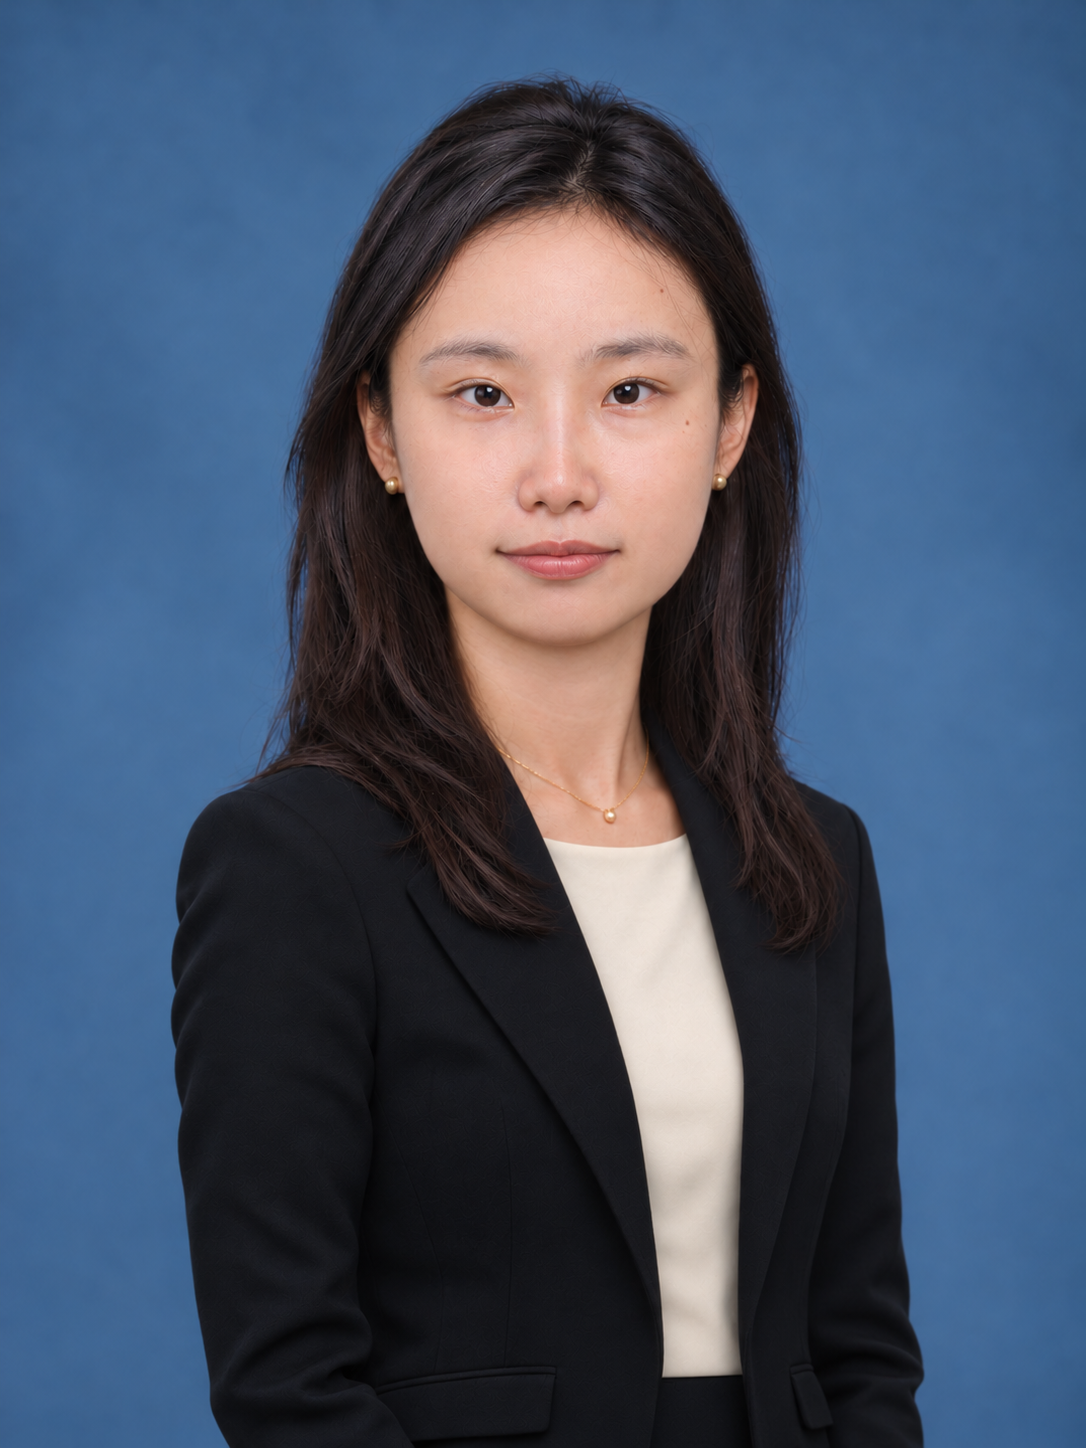
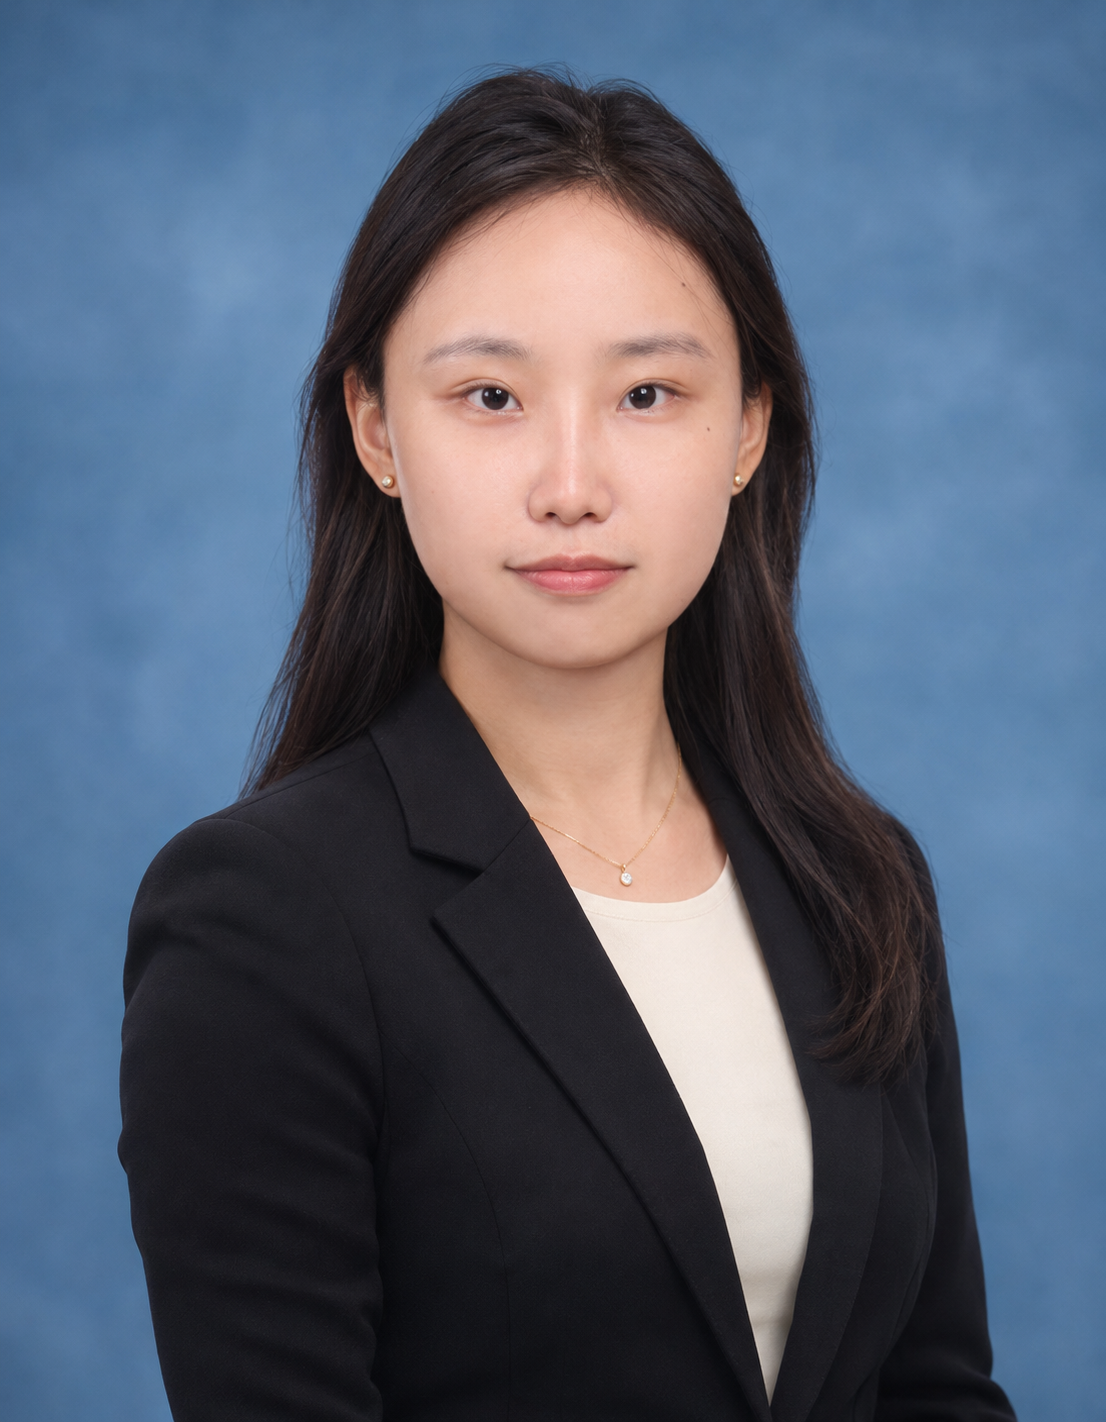
Update homepage portrait

diff --git a/index.html b/index.html
@@ -10,7 +10,7 @@
   <meta name="theme-color" content="#173e43">
   <link rel="canonical" href="https://sixinghu.github.io/">
   <meta property="og:type" content="profile">
-  <meta property="og:image" content="https://sixinghu.github.io/sixing-hu.png">
+  <meta property="og:image" content="https://sixinghu.github.io/sixing-hu.png?v=d3461fa7">
   <meta property="og:title" content="Sixing Hu (胡思行) | CUHK-Shenzhen | Operations Research">
   <meta property="og:description" content="Operations researcher at CUHK-Shenzhen. Ph.D. in Operations Research and Analytics from NUS, advised by Yifan Feng and Jussi Keppo.">
   <meta property="og:url" content="https://sixinghu.github.io/">
@@ -24,7 +24,7 @@
     "mainEntity": {
       "@type": "Person",
       "@id": "https://sixinghu.github.io/#person",
-      "image": "https://sixinghu.github.io/sixing-hu.png",
+      "image": "https://sixinghu.github.io/sixing-hu.png?v=d3461fa7",
       "name": "Sixing Hu",
       "description": "Postdoctoral Fellow at CUHK-Shenzhen and operations researcher. Ph.D. in Operations Research and Analytics from the National University of Singapore, 2025, advised by Yifan Feng and Jussi Keppo.",
       "hasCredential": {"@type": "EducationalOccupationalCredential", "credentialCategory": "Doctoral degree", "name": "Ph.D. in Operations Research and Analytics", "recognizedBy": {"@type": "CollegeOrUniversity", "name": "National University of Singapore"}},
@@ -99,7 +99,7 @@
 <a class="skip" href="#main">Skip to content</a>
 <div class="layout">
   <aside aria-label="Profile and navigation">
-    <img class="portrait" src="sixing-hu.png" alt="Sixing Hu (胡思行)" width="1086" height="1448">
+    <img class="portrait" src="sixing-hu.png?v=d3461fa7" alt="Sixing Hu (胡思行)" width="1106" height="1422">
     <p class="identity">Sixing Hu <span class="chinese" lang="zh-Hans">胡思行</span></p>
     <p class="role">Postdoctoral Fellow<br>Applied Economics</p>
     <p class="affiliation">School of Management and Economics<br>The Chinese University of<br>Hong Kong, Shenzhen</p>
